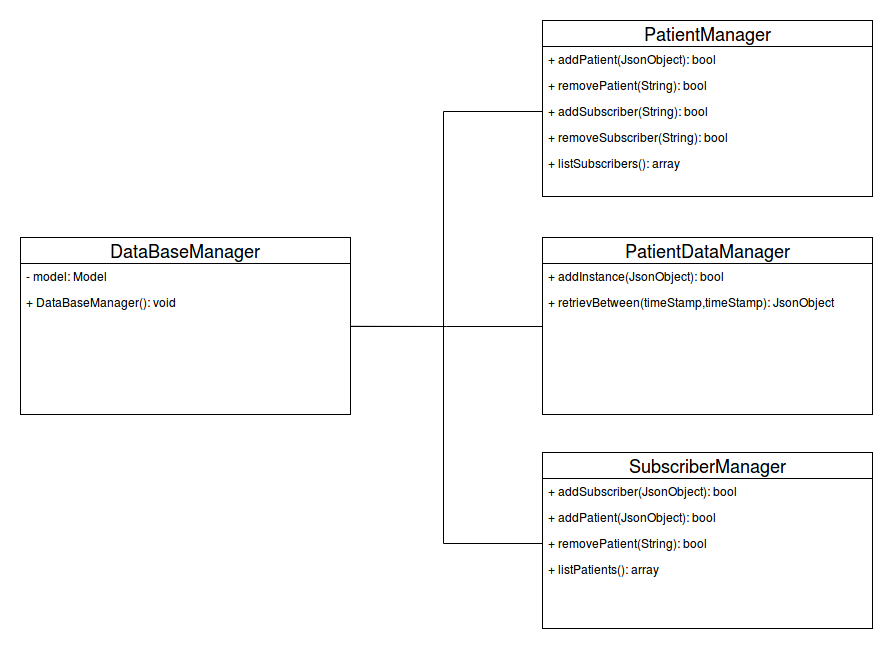
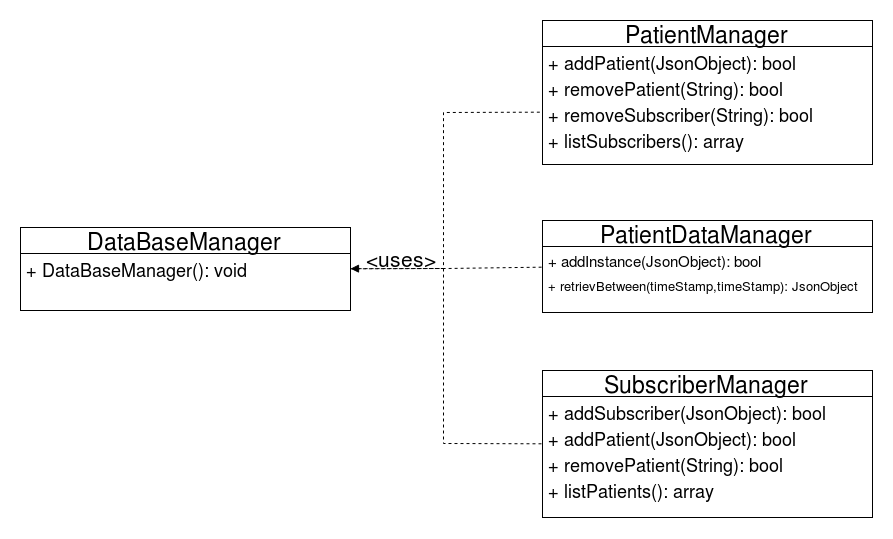
Stylize Data Storage section

diff --git a/Documentation/Architectural_Design/DataStorage/DataStorage.tex b/Documentation/Architectural_Design/DataStorage/DataStorage.tex
@@ -1,46 +1,57 @@
-TODO: 
-Add inheritance to img
-remove addSubscriber option from patientManager
+\subsection*{Diagram}
+\begin{center}
+\begin{figure}[h]
+	\includegraphics[width=15cm, height=13cm]{DataStorage/DataStorage.png}
+\end{figure}
+\end{center}
+\subsection*{Diagram Description}
 
+\subsection*{\textbf{Classes}}
+Follows is the description of each manager and the layout of the table that they will manage. It also discusses some of the specialized functions that they will provide.\\
 
-Follows is the description of each manager and the layout of the table that they will manage. It also discusses some of the specialized functions that they will provide.
+\textbf{DatabaseManager:}
 
-databaseManager:
+This is the parent class and it established the connection with the database. In the case that the database does not exit it will create one. It will do the same for all the tables specified to be in the database.\\
 
-	This is the parent class and it established the connection with the database. In the case that the database does 		not exit it will create one. It will do the same for all the tables specified to be in the database.
+\textbf{PatientManager:}
 
-patientManager:
+	This manager will store the identification of the patients on the system. Each patient will be able to obtain a list of all the individuals subscribed to their data, they will also have the ability to remove unwanted subscribers.\\
 
-	This manager will store the identification of the patients on the system. Each patient will be able to obtain a list of all the individuals subscribed to their data, they will also have the ability to remove unwanted subscribers.
+	\emph{Patient Table:}\\\\
+		(Email, Password, Address, SubscriberPassword, PK(Username), Age, Weight, Height, Reason, SubscriberList)\\
 
-	Patient Table:
-		(Email, Password, Address, SubscriberPassword, PK(Username), Age, Weight, Height, Reason, SubscriberList) 
+\begin{itemize}
+	\item Age: will be an Integer.\\
+	\item Weight: will be a Double and will be measured in kilograms.\\
+	\item Height: will be a Double and will be measured in metres.\\
+	\item SubscriberList: will be a set of unique subscriber emails.	\\
+\end{itemize}
 
-	Age: will be an Integer.
-	Weight: will be a Double and will be measured in kilograms.
-	Height: will be a Double and will be measured in metres
-	SubscriberList: will be a set of unique subscriber emails.	
 	
 	
-subscriberManager:
+\textbf{SubscriberManager:}
 
-This manager will store all the subscribers or general users. They will be identified by their email address. They will also have the ability to subscribe to patients, in which case the relevant information will be added to both the subscriber's list of patients and the patient's list of subscribers.
+This manager will store all the subscribers or general users. They will be identified by their email address. They will also have the ability to subscribe to patients, in which case the relevant information will be added to both the subscriber's list of patients and the patient's list of subscribers.\\
 
-	Subscriber Table:
-		( PK(Email), Password, Relation, PatientList)
-		
-		PatientList: will be a set of unique patient usernames.	
+	\emph{Subscriber Table:}\\\\
+		( PK(Email), Password, Relation, PatientList)\\
+\begin{itemize}
+		\item PatientList: will be a set of unique patient usernames.	\\
+\end{itemize}
+\textbf{PatientDataManager:}
 
-patientDataManager:
+This manager will have the functionality to retrieve patient data within a time span. The retrieveBetween function will preform this functionality and return a set containing an array of the patient data as well as the max, min and average value obtained during that time span.\\
 
-This manager will have the functionality to retrieve patient data within a time span. The retrieveBetween function will preform this functionality and return a set containing an array of the patient data as well as the max, min and average value obtained during that time span.
+	\emph{PatientData Table:}\\\\
+		(PK(PatientUsername), PK(DeviceID), PK(TimeStamp), Value)\\
+		\begin{itemize}
+			\item Value: can be a double or a set of information.\\
+		\end{itemize}
+		
+\subsection*{\textbf{Design Patterns}}	
+\begin{itemize}
+\item \emph{Singleton:\\} Singleton pattern restricts the instantiation of a class and ensures that only one instance of the class exists in the java virtual machine. This is imperative for the databaseManager since we only to link with the database once regardless of the number of uses.
+\end{itemize}	
 
-	PatientData Table:
-		(PK(PatientUsername), PK(DeviceID), PK(TimeStamp), value)
-		
-		value: can be a double or a set of information.
-		
-		
-		
 		
 		
